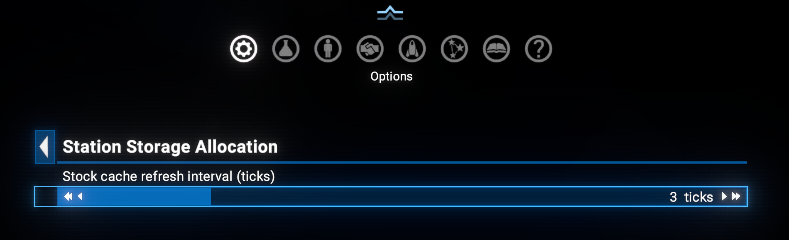
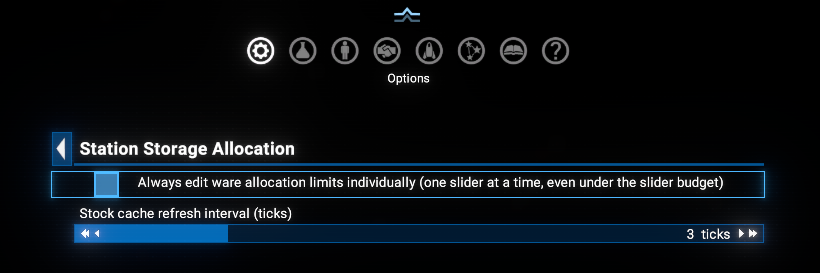
docs(README): enhance single-ware edit mode description
README.md: +added detailed explanation for single-ware edit mode and its UI interactions.
  README.md: +included images to illustrate single-ware edit mode functionality.

chore(README): update changelog for version 9.00.06

  README.md: +documented fixes and new features in changelog for version 9.00.06.

Changed region(s): [[0.0304, 0.4667, 0.9734, 0.9042], [0.2738, 0.1167, 0.6996, 0.35], [0.4867, 0.0292, 0.5171, 0.0875]]

diff --git a/README.md b/README.md
@@ -9,6 +9,7 @@ Adds a **Storage Allocation** tab to the info panel tab strip in the map menu fo
 - **Per-ware view**: Each ware row shows current stock (m³ and %), the active limit (m³ and %), and an **Auto** checkbox. Toggling the checkbox immediately switches between auto-managed and manually pinned limits without entering edit mode.
 - **Auto All button**: When viewing an expanded type, a single button clears all manual overrides for that type at once, restoring auto management.
 - **Edit mode**: Click **Edit** (requires an expanded type) to enter edit mode. The game pauses automatically. Each ware gets an allocation slider to adjust its limit. Changes are previewed live and are only applied on **Save**.
+- **Single-ware edit mode**: For stations with too many wares under one type to give each one its own slider at once (a hard engine limit), or when enabled for all types via Extension options, the **Edit** button is replaced by per-ware editing: click a ware's item-limit value to open a slider for just that ware, leaving every other ware untouched until you Save or Cancel.
 - **Rebalancing**: When a slider is moved, the limits of other wares are proportionally reduced to keep the total within the type's capacity.
 - **Ignore stock checkbox**: Allows setting a limit below the current stock (useful for planned reductions).
 - **Ware groups**: Wares are split into **Products**, **Intermediates**, **Resources**, and **Trade Wares** based on production and consumption at the station.
@@ -63,12 +64,28 @@ A slider appears for each ware in the expanded type. Slide to adjust the allocat
 - **Save**: applies all slider values and exits edit mode (game resumes).
 - **Cancel**: discards all changes and exits edit mode (game resumes).
 
+### Single-ware edit mode
+
+
+Some stations can hold more wares under one type than the game's slider-widget engine limit allows to display at once. For those types (and for every type, if you've enabled **Always edit ware allocation individually** in Extension options), the **Edit** button is hidden entirely - editing works one ware at a time instead:
+
+- In the normal (view) state, each ware's item-count limit - the small dimmed number under **Items:** - becomes a clickable button.
+
+  ![Single-ware edit, view mode](docs/images/single_ware_edit_mode_view_mode.png)
+- Clicking it pauses the game and opens a slider for **that ware only**. Every other ware in the type stays read-only; there's no way to switch to a different ware mid-session.
+
+  ![Single-ware edit, edit mode](docs/images/single_ware_edit_mode_edit_mode.png)
+
+- The bottom bar shows **Cancel** / **Reset** / **Save**, same as normal edit mode, except **Reset** only clears the override for the ware currently being edited - not the whole station.
+- To edit a different ware, **Save** or **Cancel** first, then click that ware's item-limit value.
+
 ### Extension options
 
 **Options Menu > Extension options > Station Storage Allocation**:
 
 ![Extension options](docs/images/options.png)
 
+- **Always edit ware allocation limits individually** (default: off): Forces single-ware edit mode for every storage type - even ones with few enough wares to normally use the all-at-once slider view.
 - **Stock cache refresh interval** (1-10, default 3): UI ticks before stock values are re-read from the game. Lower = more up-to-date, higher = less CPU usage.
 
 ## Credits
@@ -83,6 +100,14 @@ A slider appears for each ware in the expanded type. Slide to adjust the allocat
 - [SirNukes](https://next.nexusmods.com/profile/sirnukes?gameId=2659) - for the `Mod Support APIs` that power the options menu.
 
 ## Changelog
+
+### [9.00.06] - 2026-07-26
+
+- **Fixed**
+  - Issues in some high-resolution modes (upper then 1080p) with high UI Scale levels.
+  - Issue with reaching the limit of the game's slider-widget engine when editing a type with too many wares to show at once.
+- **Added**
+  - Option to always edit ware allocation limits individually, even for types with few enough wares to normally use the all-at-once slider view.
 
 ### [9.00.05] - 2026-06-27
 
